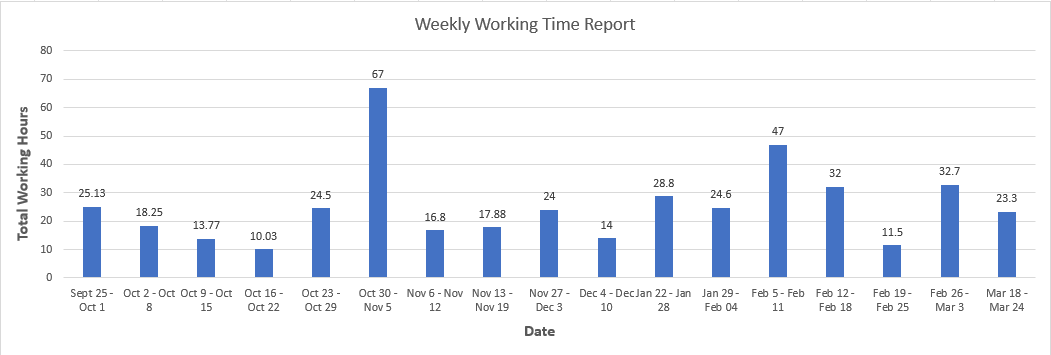
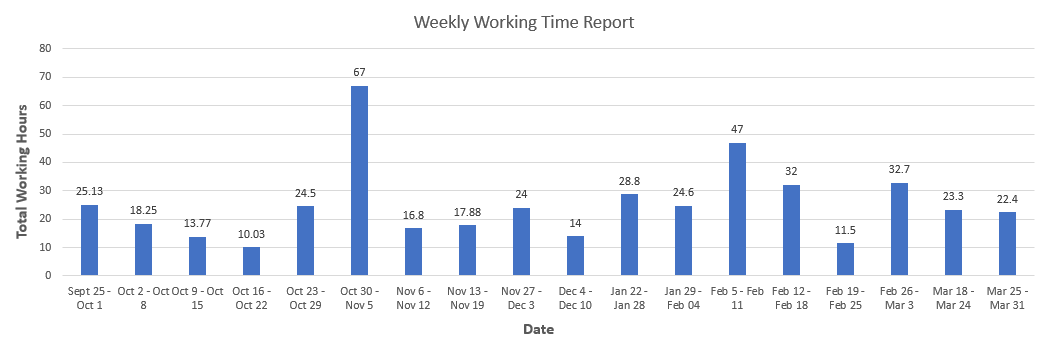
updated website

diff --git a/timetracking.html b/timetracking.html
@@ -19,7 +19,7 @@
             <a href="contacts.html">Contact</a>
         </nav>
         <h1>Work Time Trackings</h1>
-        <h2>Work Hours from from February 26th to March 3rd</h2>
+        <h2>Work Hours from from March 25th to March 31st</h2>
         <h3>Illustration of Work Hours For Each Week: </h3>
         <img src="images/WeeklyReportBarChart.png" alt="Work hours from September 25th to November 19th">
       
